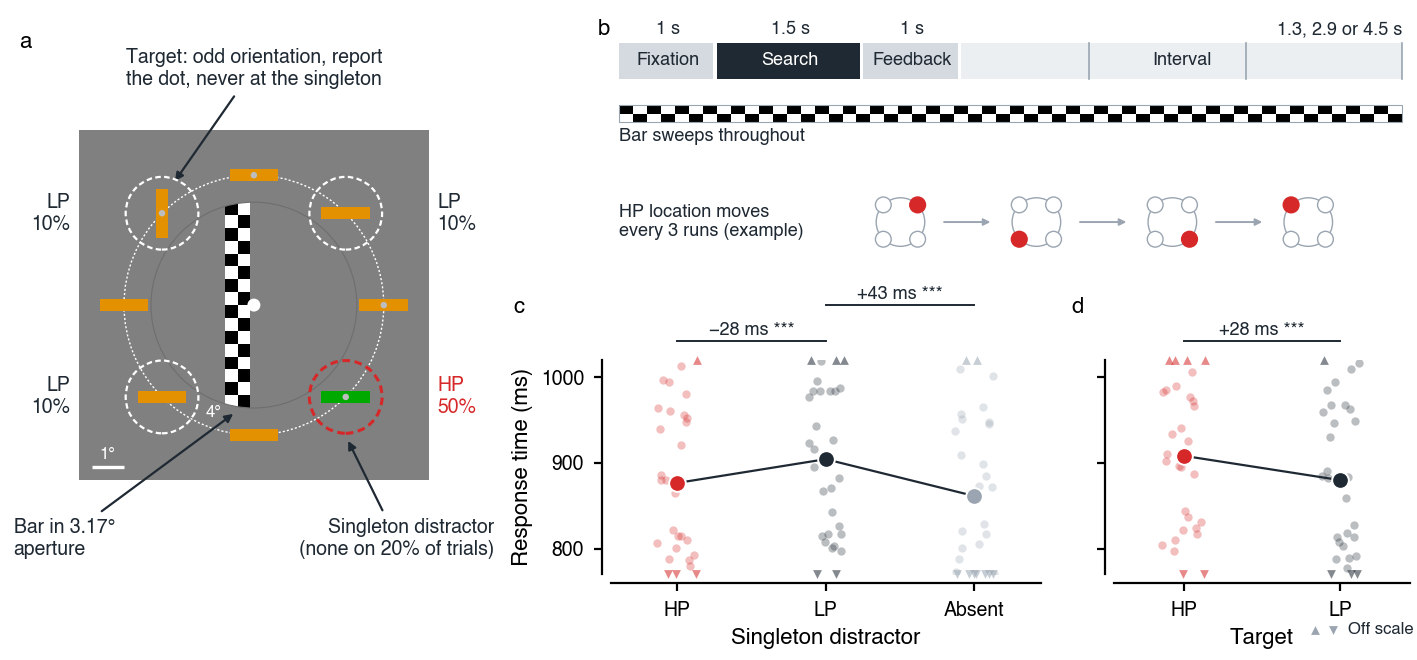
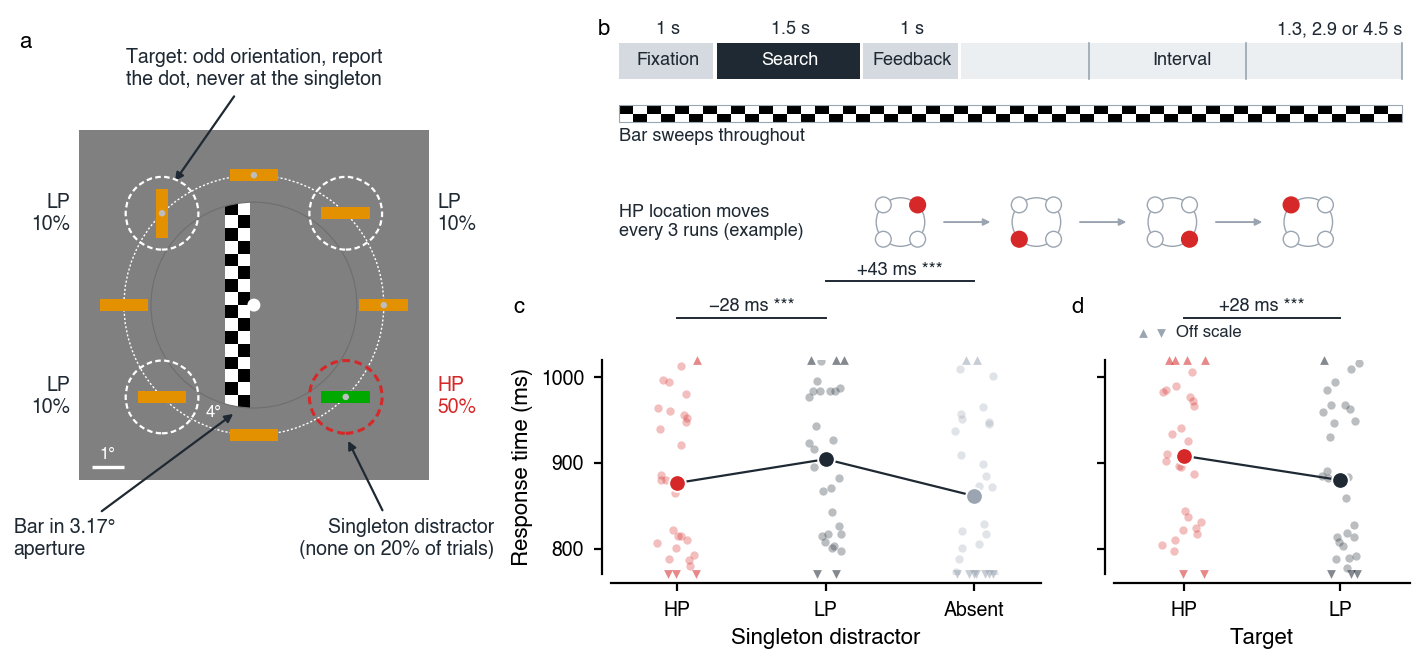
Nested ladder: refit shared terms on voxels with cross-run reliability above zero

diff --git a/retsupp/modeling/fit_cv_ladder_nested.py b/retsupp/modeling/fit_cv_ladder_nested.py
@@ -50,6 +50,10 @@ the data, stimulus and distractor and target events stay as they were. Models wi
 tied gains do not depend on the labels, so with ``--base-root`` they are loaded from
 there. Root gets a _hprot<K> suffix.
 
+``--reliable-only`` keeps the selected voxels with model-free cross-run reliability > 0 (mean over
+the ``prf_cv_reliability`` folds). The m00, m0, m1 and m3b fits come from ``--base-root``, restricted
+to those voxels, so m4 onward refit the shared terms on them. Root gets a _reliable suffix.
+
 Output: ``derivatives/af_prf_cv_ladder_nested[_<scheme>][_bounded][_polished]/<model>/sub-XX/``.
 Existing outputs are loaded, never overwritten.
 
@@ -394,7 +398,7 @@ def main(subject, bids_folder, roi, cv_scheme='loco', resolution=50,
          grid_radius=5.0, max_voxels=500, p_signal_thr=0.5,
          gd_iterations=8000, learning_rate=0.01, models=None,
          output_root=None, polish=False, bounded=False, max_bold_sd=None,
-         loss='sse', base_roots=(), family='dog', hp_rotation=0):
+         loss='sse', base_roots=(), family='dog', hp_rotation=0, reliable_only=False):
     if cv_scheme not in SCHEMES:
         raise ValueError(f'cv_scheme must be in {SCHEMES}')
     if hp_rotation and not base_roots:
@@ -415,7 +419,8 @@ def main(subject, bids_folder, roi, cv_scheme='loco', resolution=50,
             + (f'_maxsd{max_bold_sd:g}' if max_bold_sd else '')
             + ('' if loss == 'sse' else f'_{loss}')
             + ('' if family == 'dog' else f'_{family}')
-            + (f'_hprot{hp_rotation}' if hp_rotation else '')))
+            + (f'_hprot{hp_rotation}' if hp_rotation else '')
+            + ('_reliable' if reliable_only else '')))
     polish_root = root.parent / f'{root.name}_polished'
     models = models or list(LADDER)
 
@@ -440,6 +445,15 @@ def main(subject, bids_folder, roi, cv_scheme='loco', resolution=50,
         voxel_mask = voxel_mask & ~drop
         print(f'BOLD SD > {max_bold_sd:g}: dropped {drop.sum()} voxels '
               f'{np.where(drop)[0].tolist()}, {voxel_mask.sum()} left')
+    if reliable_only:
+        rel = pd.concat([pd.read_csv(f, sep='\t') for f in sorted(
+            (bids_folder / 'derivatives' / 'prf_cv_roi_reliability' / f'sub-{subject:02d}').glob(
+                f'sub-{subject:02d}_fold-*_reliability.tsv.gz'))])
+        rel = rel.groupby('voxel_index').reliability.mean()
+        reliable = np.zeros(voxel_mask.size, dtype=bool)
+        reliable[rel.index[rel > 0]] = True
+        print(f'Reliability > 0: {(voxel_mask & reliable).sum()} of {voxel_mask.sum()} voxels')
+        voxel_mask = voxel_mask & reliable
     voxel_ids = np.where(voxel_mask)[0]
     ring_positions = get_ring_positions()
     hrf_model = SPMHRFModel(tr=sub.get_tr(session=1, run=1),
@@ -497,7 +511,8 @@ def main(subject, bids_folder, roi, cv_scheme='loco', resolution=50,
         out_root = root if stage == 'clamped' else polish_root
         store = fits if stage == 'clamped' else polished
         cached = load(name, out_root)
-        from_base = ('m00_bar', 'm0_prf') + (LABEL_BLIND if hp_rotation else ())
+        from_base = (('m00_bar', 'm0_prf') + (LABEL_BLIND if hp_rotation else ())
+                     + (('m1_T', 'm3b_TD') if reliable_only else ()))
         if cached is None and base_roots and name in from_base:
             # First root holding this fit wins, so an overlay root goes first.
             for base in base_roots:
@@ -506,6 +521,14 @@ def main(subject, bids_folder, roi, cv_scheme='loco', resolution=50,
                     break
             if cached is None:
                 raise FileNotFoundError(f'{name} not in {base_roots}')
+            if reliable_only:
+                pkl = Path(base) / name / f'sub-{subject:02d}' / f'sub-{subject:02d}_roi-{roi}_cv-fits.pkl'
+                with open(pkl, 'rb') as f:
+                    base_ids = np.asarray(pickle.load(f)['voxel_ids'])
+                keep = np.isin(base_ids, voxel_ids)
+                if keep.sum() != voxel_ids.size:
+                    raise ValueError(f'{name} in {base}: lacks {voxel_ids.size - keep.sum()} voxels')
+                cached = [None if p is None else p.loc[keep].reset_index(drop=True) for p in cached]
             if any(p is not None and len(p) != voxel_ids.size for p in cached):
                 raise ValueError(f'{name} in {base}: voxel set differs')
         if cached is not None:
@@ -694,10 +717,12 @@ if __name__ == '__main__':
                     help='Reuse m00 and m0 from these roots, first one holding the fit wins.')
     ap.add_argument('--hp-rotation', type=int, choices=[0, 1, 2, 3], default=0,
                     help='Relabel HP as the ring position this many steps away.')
+    ap.add_argument('--reliable-only', action='store_true',
+                    help='Keep selected voxels with cross-run reliability > 0, frozen pRFs from --base-root.')
     a = ap.parse_args()
     main(a.subject, a.bids_folder, a.roi, cv_scheme=a.cv_scheme,
          gd_iterations=a.gd_iterations, learning_rate=a.learning_rate,
          models=a.models, max_voxels=a.max_voxels,
          output_root=a.output_root, polish=a.polish, bounded=a.bounded,
          max_bold_sd=a.max_bold_sd, loss=a.loss, base_roots=a.base_root, family=a.family,
-         hp_rotation=a.hp_rotation)
+         hp_rotation=a.hp_rotation, reliable_only=a.reliable_only)

diff --git a/retsupp/visualize/paper/fig1_paradigm_behaviour.py b/retsupp/visualize/paper/fig1_paradigm_behaviour.py
@@ -58,7 +58,7 @@ def rt_panel(ax, d, conds, colors, pairs, ylim):
     for n, (a, b) in enumerate(pairs):
         diff = w[a] - w[b]
         i, j = conds.index(a), conds.index(b)
-        y = hi + (.09 + n * .17) * span
+        y = hi + (.2 + n * .17) * span
         ax.plot([i, j], [y, y], color=FG, lw=.7, clip_on=False)
         ax.text((i + j) / 2, y + .01 * span, f'{diff.mean():+.0f} ms {stars(stats.wilcoxon(diff).pvalue)}'.replace('-', '−'),
                 ha='center', va='bottom', fontsize=6.5, color=FG, clip_on=False)
@@ -94,9 +94,9 @@ def main(rt_table, bids, name='fig1_paradigm_behaviour'):
     ax.set_xlabel('Target')
     ax.set_yticklabels([])
     letter(ax, 'd', x=-.1, y=1.2)
-    ax.scatter([.68], [-.26], s=10, marker='^', color=MUTED, lw=0, transform=ax.transAxes, clip_on=False)
-    ax.scatter([.74], [-.26], s=10, marker='v', color=MUTED, lw=0, transform=ax.transAxes, clip_on=False)
-    ax.text(.79, -.26, 'Off scale', transform=ax.transAxes, fontsize=6, color=FG, va='center')
+    ax.scatter([.1], [1.13], s=10, marker='^', color=MUTED, lw=0, transform=ax.transAxes, clip_on=False)
+    ax.scatter([.16], [1.13], s=10, marker='v', color=MUTED, lw=0, transform=ax.transAxes, clip_on=False)
+    ax.text(.21, 1.13, 'Off scale', transform=ax.transAxes, fontsize=6, color=FG, va='center')
     save(fig, name, LEGEND)
 
 
